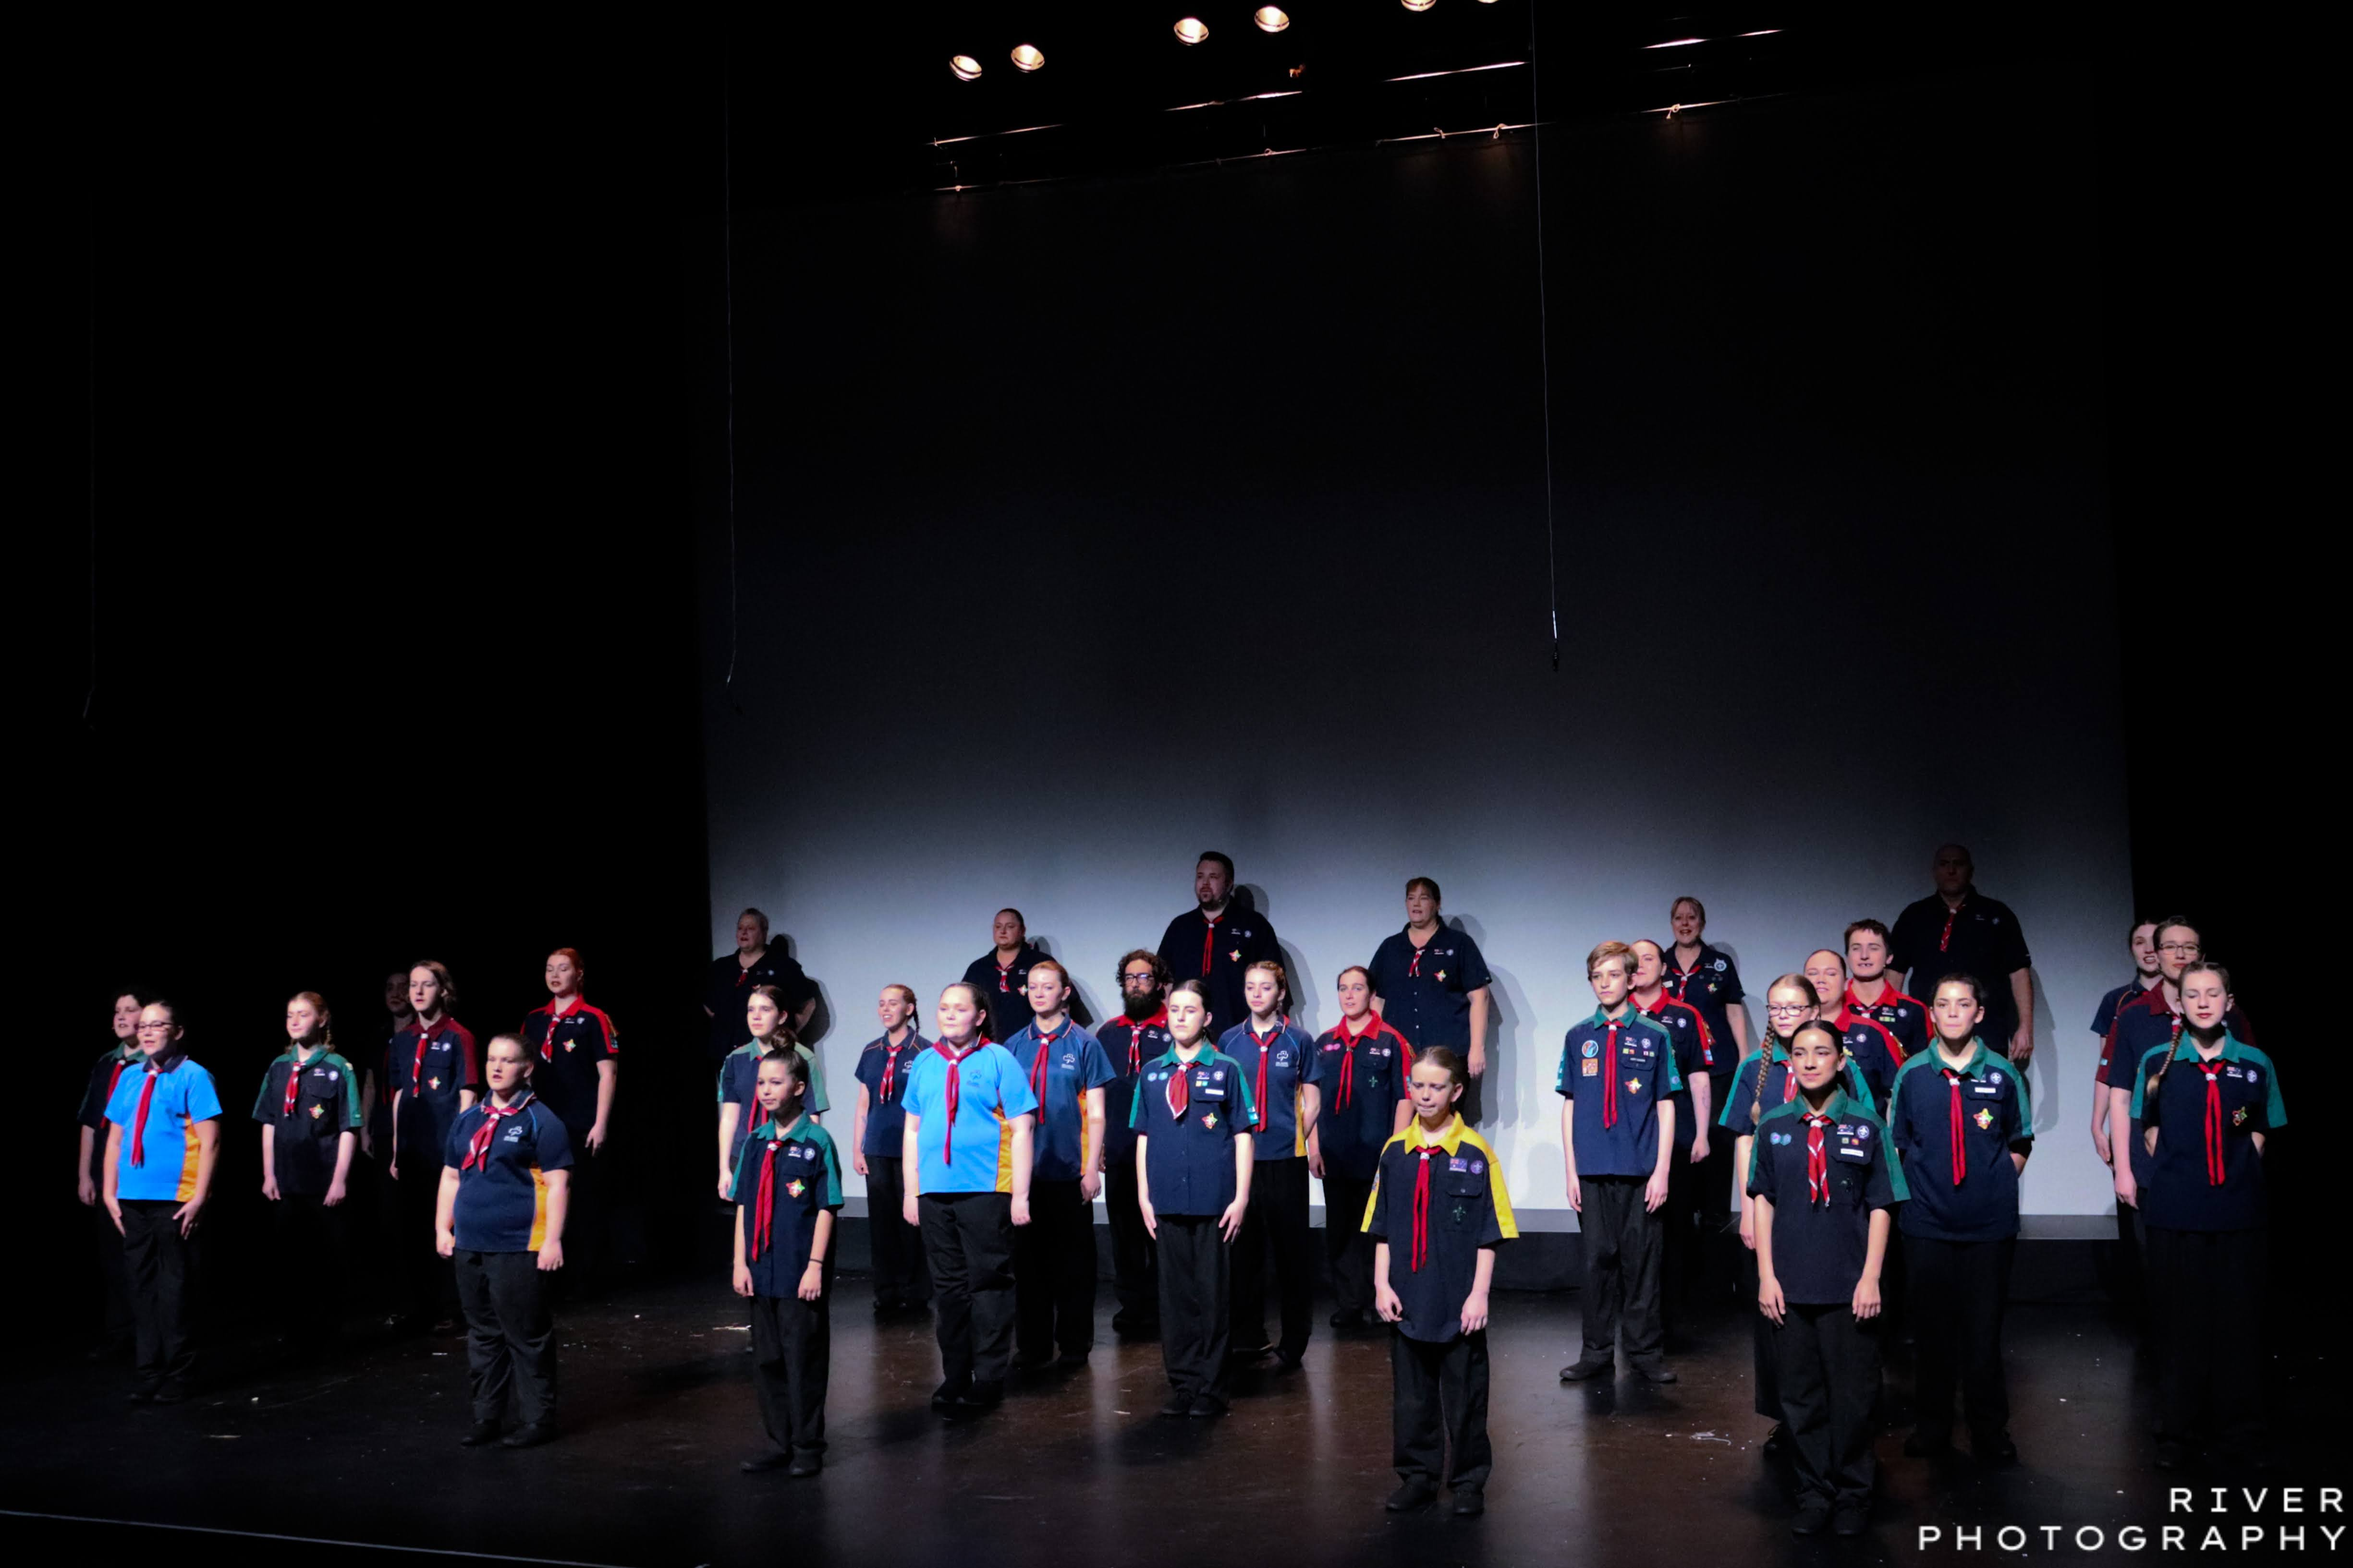
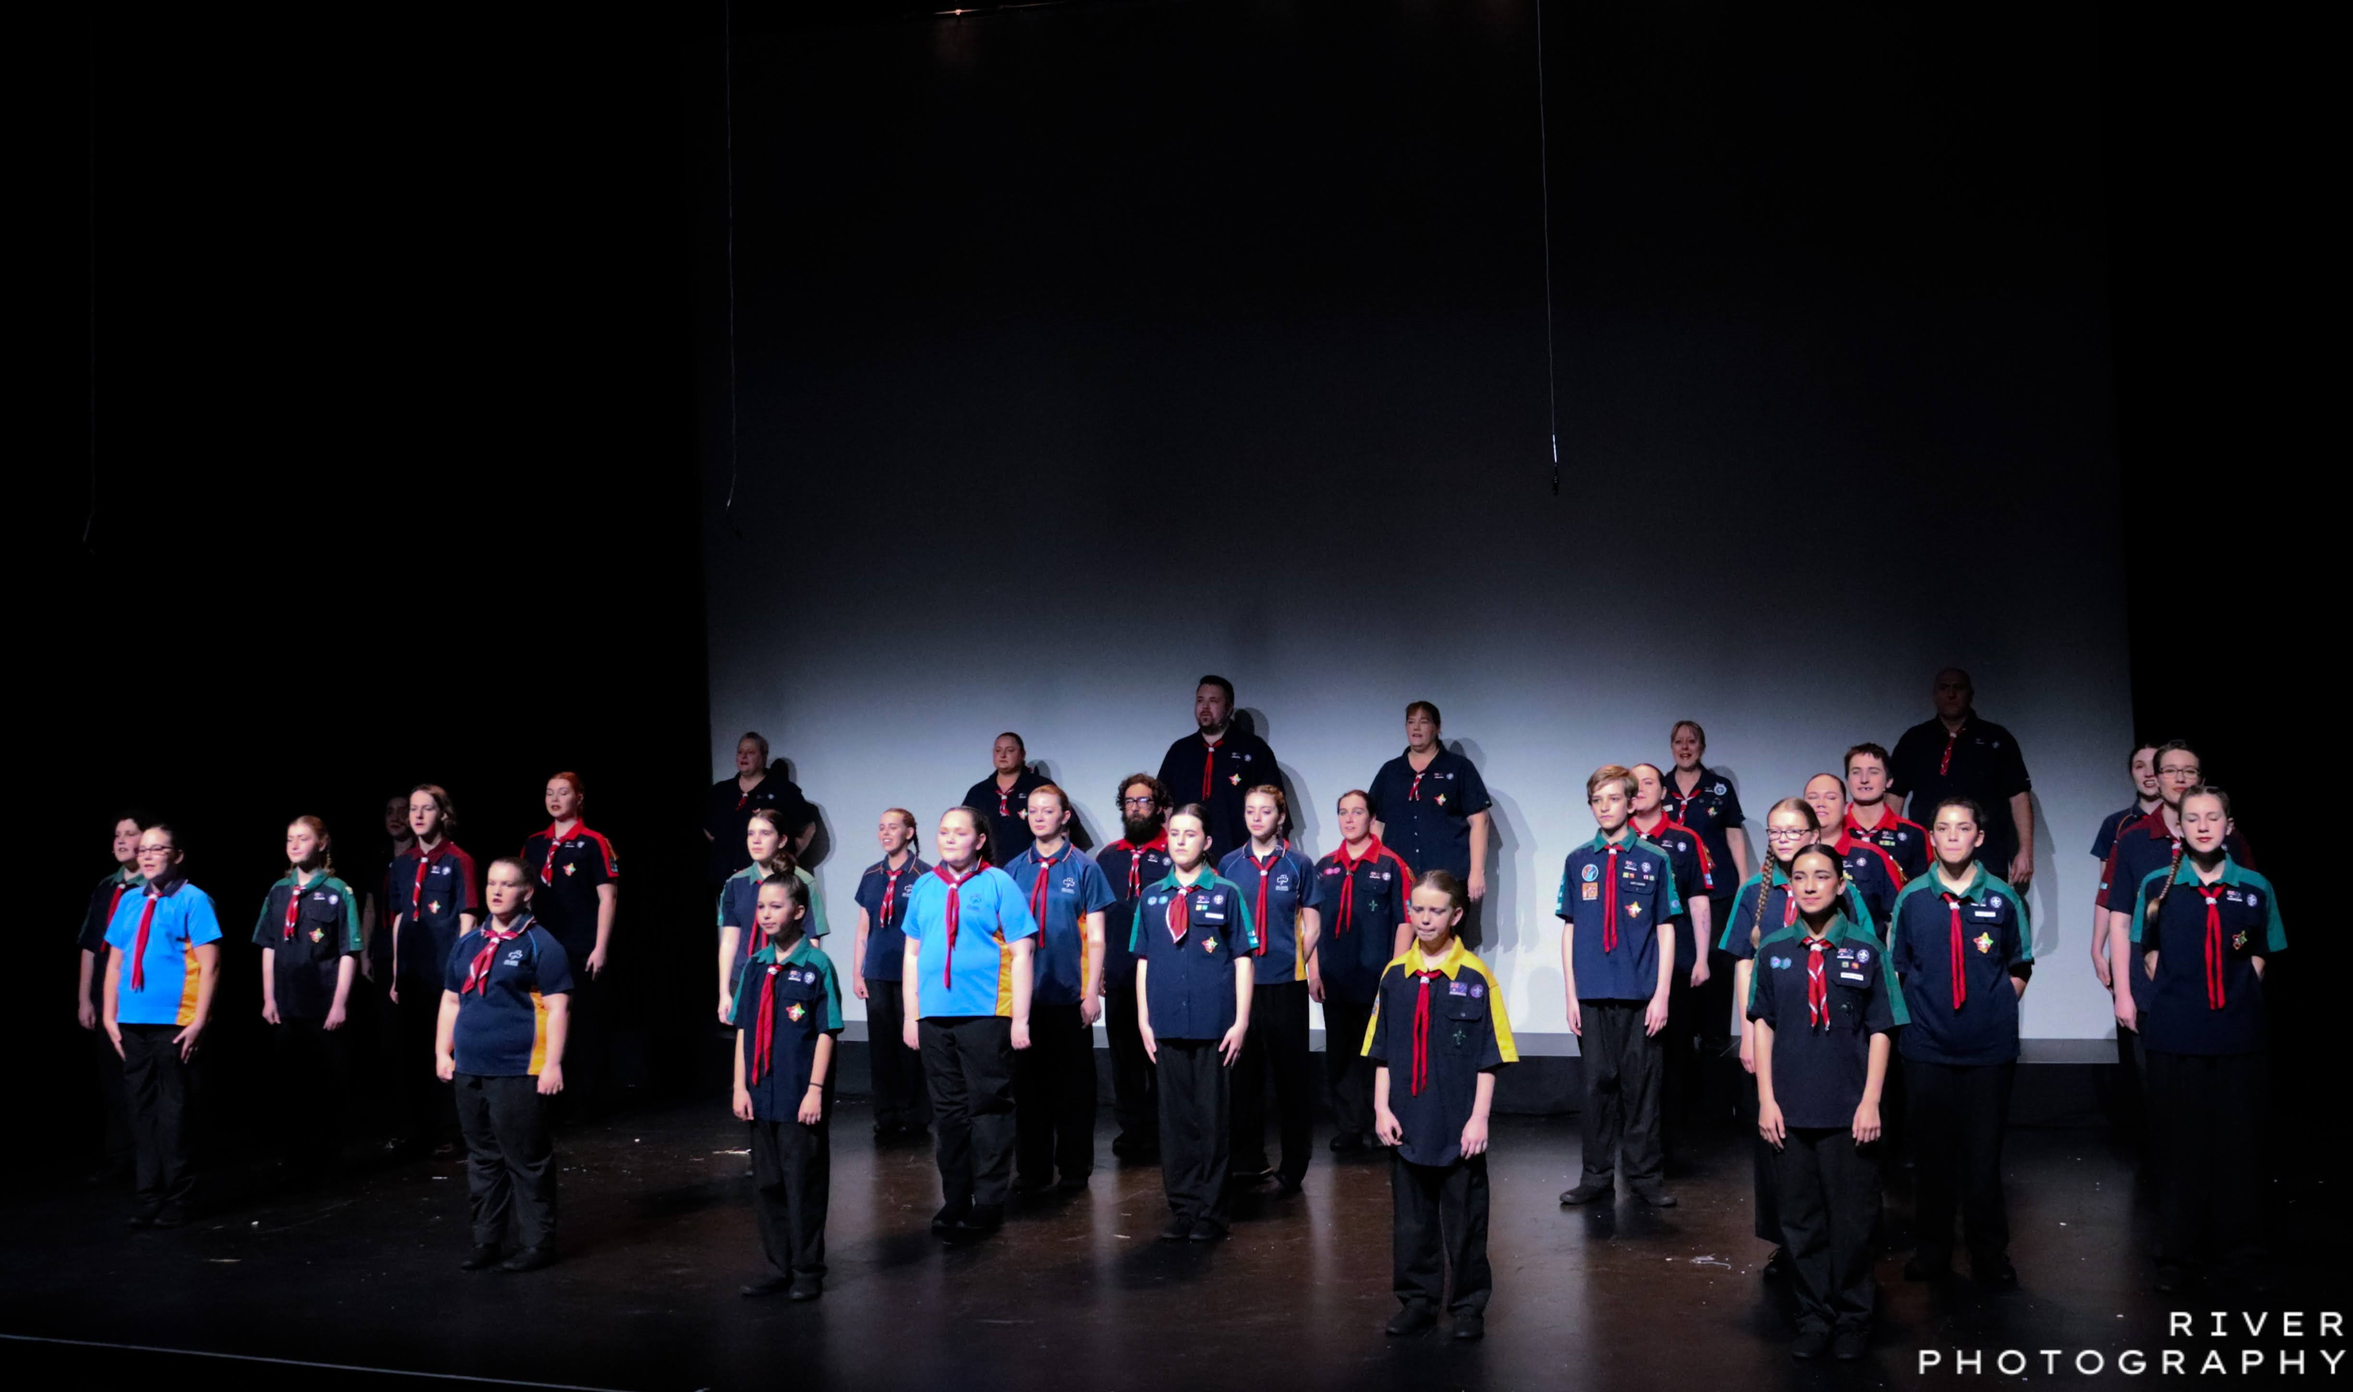
Trimmed Backdrop, Modular Section Colours

diff --git a/assets/styles/main.css b/assets/styles/main.css
@@ -49,10 +49,15 @@ body {
 }
 .section {
     position: relative;
-    background: #fbda03;
     min-height: 450px;
     padding: 30px;
     box-sizing: border-box;
+}
+.section-yellow {
+    background: #fbda03;
+}
+.section-blue {
+    background: #3037ff;
 }
 .void {
     width: 100%;
@@ -86,15 +91,32 @@ h1, h2, h3, h4, h5, h6, p {
 }
 h1 {
     font-size: 6rem;
+    font-weight: bold;
+    color: #fbda03;
 }
+
 h2 {
     font-size: 3rem;
 }
+.section-yellow h2 {
+    color: #3037ff;
+}
+.section-blue h2 {
+    color: #fbda03;
+}
+
 h3 {
     font-size: 2.25rem;
 }
+
 p {
     font-size: 1.25rem;
+}
+.section-yellow p {
+    color: #111111;
+}
+.section-blue p {
+    color: #dddddd;
 }
 
 /* Custom Scrollbar */

diff --git a/assets/styles/sections.css b/assets/styles/sections.css
@@ -1,5 +1,6 @@
 .backdrop-title {
     background-image: url("/assets/images/backdrops/title.jpg");
+    filter: brightness(90%);
     height: 120%;
 }
 .void-title {
@@ -11,10 +12,6 @@
 }
 
 /* Title */
-.void-title h1 {
-    color: #fbda03;
-    font-weight: bold;
-}
 .void-title h1 {
     background-color: #f3ec78;
     background-image: linear-gradient(45deg, #3037ff, #fbda03);
@@ -33,9 +30,5 @@
     align-items: center;
 }
 .section-about h2 {
-    color: #3037ff;
     margin-bottom: 1rem;
-}
-.section-about p {
-    color: #111111;
 }

diff --git a/index.html b/index.html
@@ -31,7 +31,7 @@
     </header>
     <main class="parallax">
         <figure class="backdrop backdrop-title"></figure>
-        <article class="section section-about">
+        <article class="section section-yellow section-about">
             <img alt="Section Transition" class="transition" src="/assets/images/Transition3.png">
             <div>
                 <h2>Who Are We?</h2>
